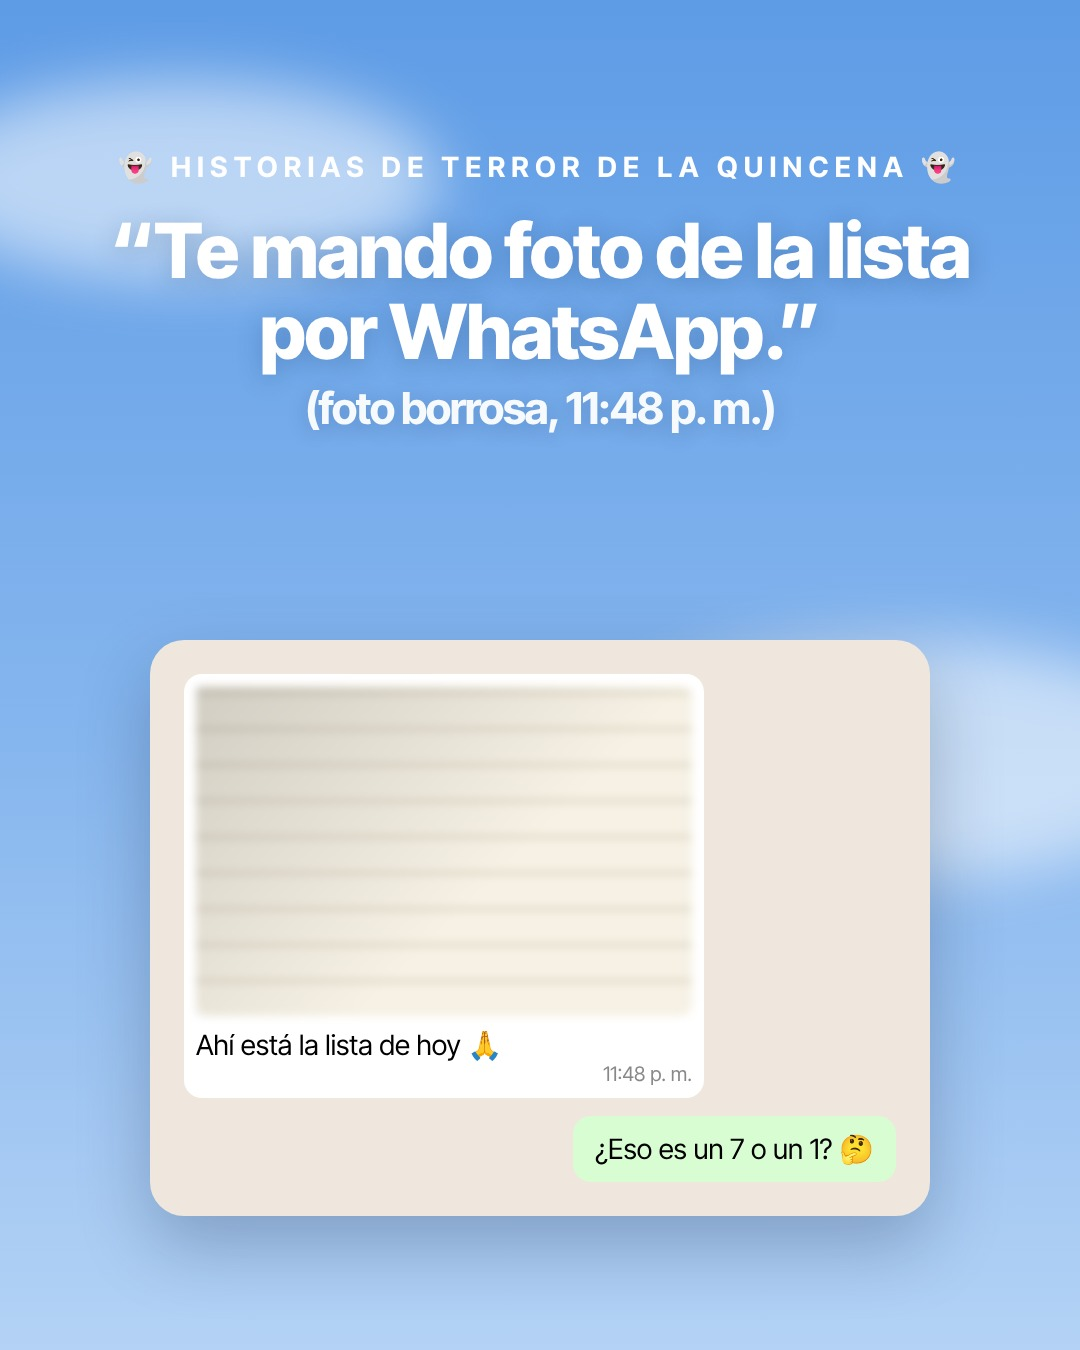
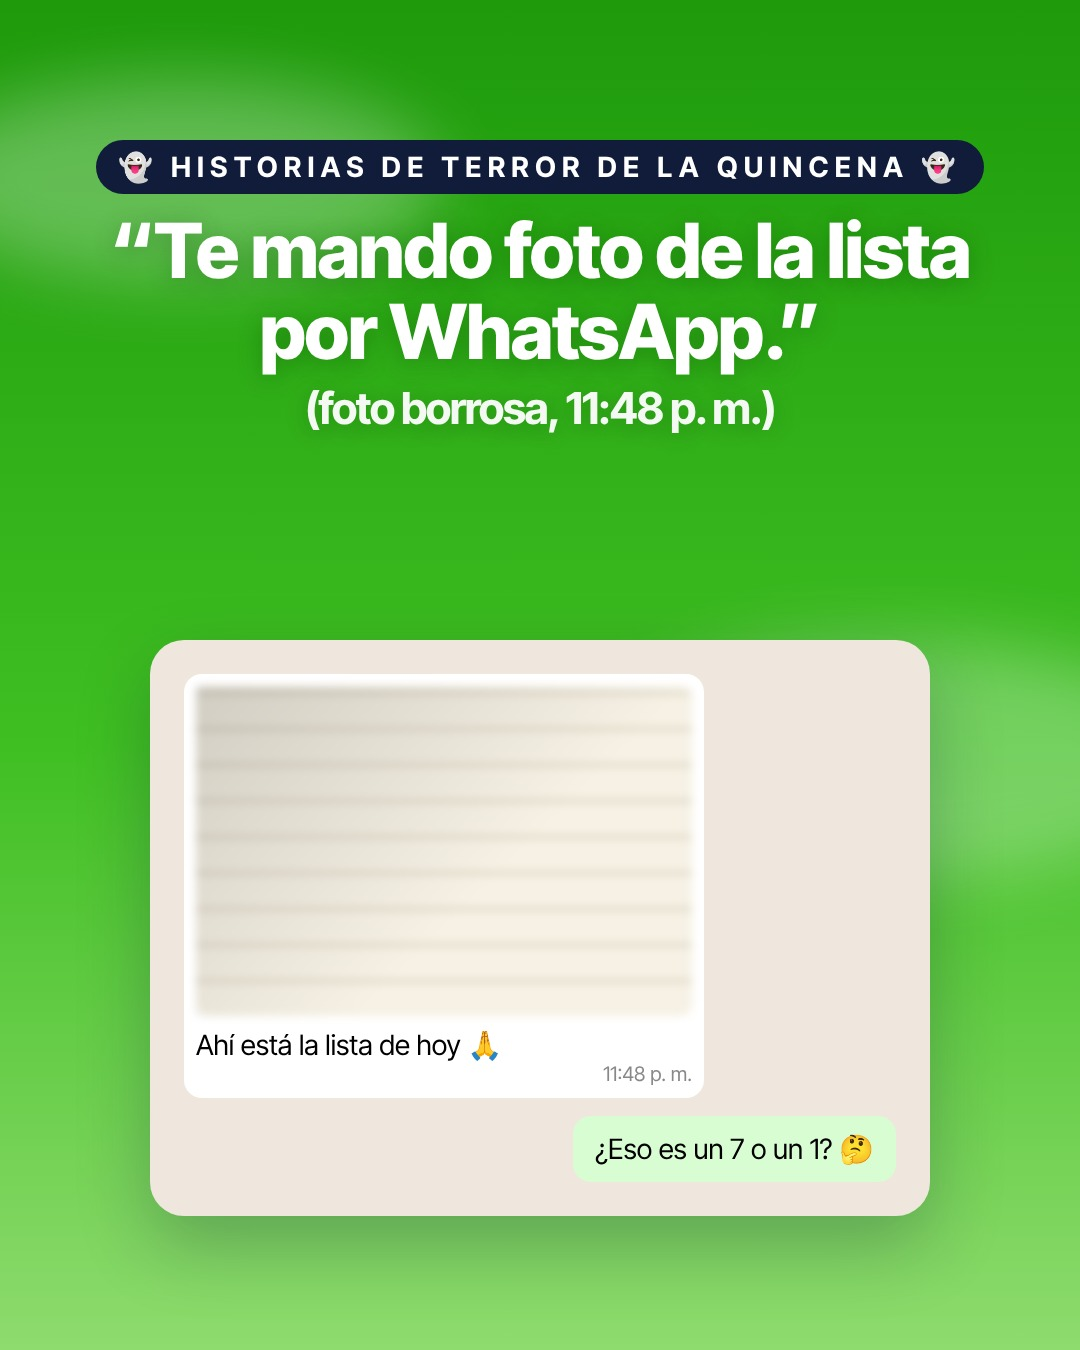
Carrusel terror de la quincena con colores de CheckONOFF (verde y azul marino)
Claude-Session: https://claude.ai/code/session_01XBCqhX5CghmhVPF1PqhUxY

diff --git a/plantillas/competencia/render_comp.js b/plantillas/competencia/render_comp.js
@@ -6,10 +6,10 @@ const V = '#1E9A0B', V2 = '#2DB014', NV = '#111C3B';
 const head = (bg) => `<!doctype html><html><head><meta charset="utf-8"><style>
 ${[400,500,600,700,800].map(w=>`@font-face{font-family:IT;font-weight:${w};src:url(${U('plantillas/fonts_it_'+w+'.ttf')})}`).join('')}
 *{margin:0;padding:0;box-sizing:border-box} body{width:1080px;height:1350px;overflow:hidden;font-family:IT,sans-serif;position:relative;background:${bg}}
-.cielo{position:absolute;inset:0;background:linear-gradient(180deg,#5E9CE6 0%,#86B6EE 55%,#B3D2F5 100%)}
-.nube{position:absolute;border-radius:50%;background:rgba(255,255,255,.55);filter:blur(30px)}
+.cielo{position:absolute;inset:0;background:linear-gradient(180deg,#1E9A0B 0%,#3FBF22 55%,#8EDB6E 100%)}
+.nube{position:absolute;border-radius:50%;background:rgba(255,255,255,.28);filter:blur(34px)}
 .kick{position:absolute;left:0;right:0;top:150px;text-align:center;color:#fff;font-weight:700;font-size:28px;letter-spacing:.22em}
-.q{position:absolute;left:70px;right:70px;top:210px;text-align:center;color:#fff;font-weight:800;font-size:76px;line-height:1.06;letter-spacing:-.02em;text-shadow:0 4px 24px rgba(20,50,100,.25)}
+.q{position:absolute;left:70px;right:70px;top:210px;text-align:center;color:#fff;font-weight:800;font-size:76px;line-height:1.06;letter-spacing:-.02em;text-shadow:0 4px 24px rgba(10,60,5,.30)}
 .q small{display:block;font-size:44px;font-weight:700;margin-top:14px;opacity:.95}
 .obj{position:absolute;left:50%;transform:translateX(-50%);mix-blend-mode:multiply}
 .card{background:#fff;border-radius:28px;box-shadow:0 30px 70px rgba(17,28,59,.18);padding:34px}
@@ -24,20 +24,20 @@ ${[400,500,600,700,800].map(w=>`@font-face{font-family:IT;font-weight:${w};src:u
 </style></head><body>`;
 const fin = `</body></html>`;
 const cielo = `<div class="cielo"></div><div class="nube" style="left:-80px;top:80px;width:520px;height:200px"></div><div class="nube" style="right:-120px;top:640px;width:600px;height:240px"></div>`;
-const KICK = `<div class="kick">👻 HISTORIAS DE TERROR DE LA QUINCENA 👻</div>`;
+const KICK = `<div class="kick"><span style="background:#111C3B;padding:10px 22px;border-radius:30px">👻 HISTORIAS DE TERROR DE LA QUINCENA 👻</span></div>`;
 const S = {};
 // ---------- Carrusel A: estilo Humand ----------
-S.a1 = () => head('#86B6EE') + cielo + KICK + `<div class="q">“¿Alguien sabe a qué hora llegó Pedro el martes?”<small>(nadie sabe)</small></div>
+S.a1 = () => head('#3FBF22') + cielo + KICK + `<div class="q">“¿Alguien sabe a qué hora llegó Pedro el martes?”<small>(nadie sabe)</small></div>
 <img class="obj" src="${U('plantillas/competencia/fotos/reloj.jpg')}" style="top:560px;width:1150px">` + fin;
-S.a2 = () => head('#86B6EE') + cielo + KICK + `<div class="q">“Te mando foto de la lista por WhatsApp.”<small>(foto borrosa, 11:48 p. m.)</small></div>
+S.a2 = () => head('#3FBF22') + cielo + KICK + `<div class="q">“Te mando foto de la lista por WhatsApp.”<small>(foto borrosa, 11:48 p. m.)</small></div>
 <div style="position:absolute;left:150px;right:150px;top:640px;background:#EFE7DD;border-radius:34px;padding:34px;box-shadow:0 30px 70px rgba(17,28,59,.25)">
 <div style="display:flex;justify-content:flex-start"><div style="background:#fff;border-radius:18px;padding:12px;width:520px">
 <div style="height:330px;border-radius:12px;background:repeating-linear-gradient(0deg,#f6f1e4 0 34px,#c9c0ad 34px 36px);filter:blur(4px);position:relative"><div style="position:absolute;inset:0;background:linear-gradient(135deg,rgba(0,0,0,.15),transparent 60%)"></div></div>
 <div style="font-size:28px;margin-top:12px">Ahí está la lista de hoy 🙏</div><div style="text-align:right;font-size:20px;color:#888">11:48 p. m.</div></div></div>
 <div style="display:flex;justify-content:flex-end;margin-top:18px"><div style="background:#D9FDD3;border-radius:18px;padding:16px 22px;font-size:28px">¿Eso es un 7 o un 1? 🤔</div></div></div>` + fin;
-S.a3 = () => head('#86B6EE') + cielo + KICK + `<div class="q">“Los registros de asistencia de 2024 están… por ahí.”</div>
+S.a3 = () => head('#3FBF22') + cielo + KICK + `<div class="q">“Los registros de asistencia de 2024 están… por ahí.”</div>
 <img class="obj" src="${U('plantillas/competencia/fotos/carpetas.jpg')}" style="top:560px;width:1500px;transform:translateX(-66%);-webkit-mask-image:radial-gradient(ellipse 48% 44% at 55% 52%,#000 60%,transparent 100%)">` + fin;
-S.a4 = () => head('#86B6EE') + cielo + KICK + `<div class="q">“Juan checó a las 7:59.”<small>Juan estaba de vacaciones.</small></div>
+S.a4 = () => head('#3FBF22') + cielo + KICK + `<div class="q">“Juan checó a las 7:59.”<small>Juan estaba de vacaciones.</small></div>
 <div style="position:absolute;left:300px;top:660px;width:480px;background:#fff;padding:40px 40px 60px;font-family:monospace;font-size:30px;line-height:1.6;color:#333;box-shadow:0 30px 70px rgba(17,28,59,.25);transform:rotate(-4deg);clip-path:polygon(0 0,100% 0,100% 94%,92% 100%,84% 94%,76% 100%,68% 94%,60% 100%,52% 94%,44% 100%,36% 94%,28% 100%,20% 94%,12% 100%,4% 94%,0 100%)">
 <div style="text-align:center;font-weight:700">RELOJ CHECADOR</div><div>EMPLEADO: 0147 JUAN</div><div>FECHA: 12/11</div><div style="font-size:44px;font-weight:700;text-align:center;margin-top:16px">ENT 07:59</div><div style="text-align:center;color:#c00;font-weight:700;margin-top:10px">✔ REGISTRADO</div></div>` + fin;
 S.a5 = () => head('#F4F7F2') + `<div style="position:absolute;left:0;right:0;top:120px;text-align:center"><div style="font-weight:800;font-size:70px;color:${NV};letter-spacing:-.02em;line-height:1.08;padding:0 80px">Con CheckONOFF, estas historias se acaban.</div>

diff --git a/ESTRATEGIA.md b/ESTRATEGIA.md
@@ -309,7 +309,7 @@ Cada pieza lleva su propia escena en pantalla; los bucles van en texto grande y 
 
 
 ## Carruseles estilo competencia en Instagram (aprobado por el dueño, 18/11/2026)
-- Referencias: Humand (frase entre comillas grande sobre cielo azul + objeto/pantalla; serie con nombre fijo, humor de oficina) y Sesame ("Paso 1-4" con pantalla de producto y nombre de quien la usa).
+- Referencias: Humand (frase entre comillas grande sobre fondo degradado en los colores de CheckONOFF —verde #1E9A0B→#8EDB6E, etiqueta azul marino #111C3B— + objeto/pantalla; nunca el azul de Humand; serie con nombre fijo, humor de oficina) y Sesame ("Paso 1-4" con pantalla de producto y nombre de quien la usa).
 - Plantilla: plantillas/competencia/render_comp.js. Series: "Historias de terror de la quincena" y "De la libreta a la prenómina en pasos".
 - Se publican en TODAS las redes de CheckONOFF (Instagram, Facebook y LinkedIn): 2 carruseles por semana a las 13:00, además de los reels diarios de las 18:00.
 - Pendiente: fotos reales del equipo para la serie de personas (estilo "Creo que tengo fiebre").
